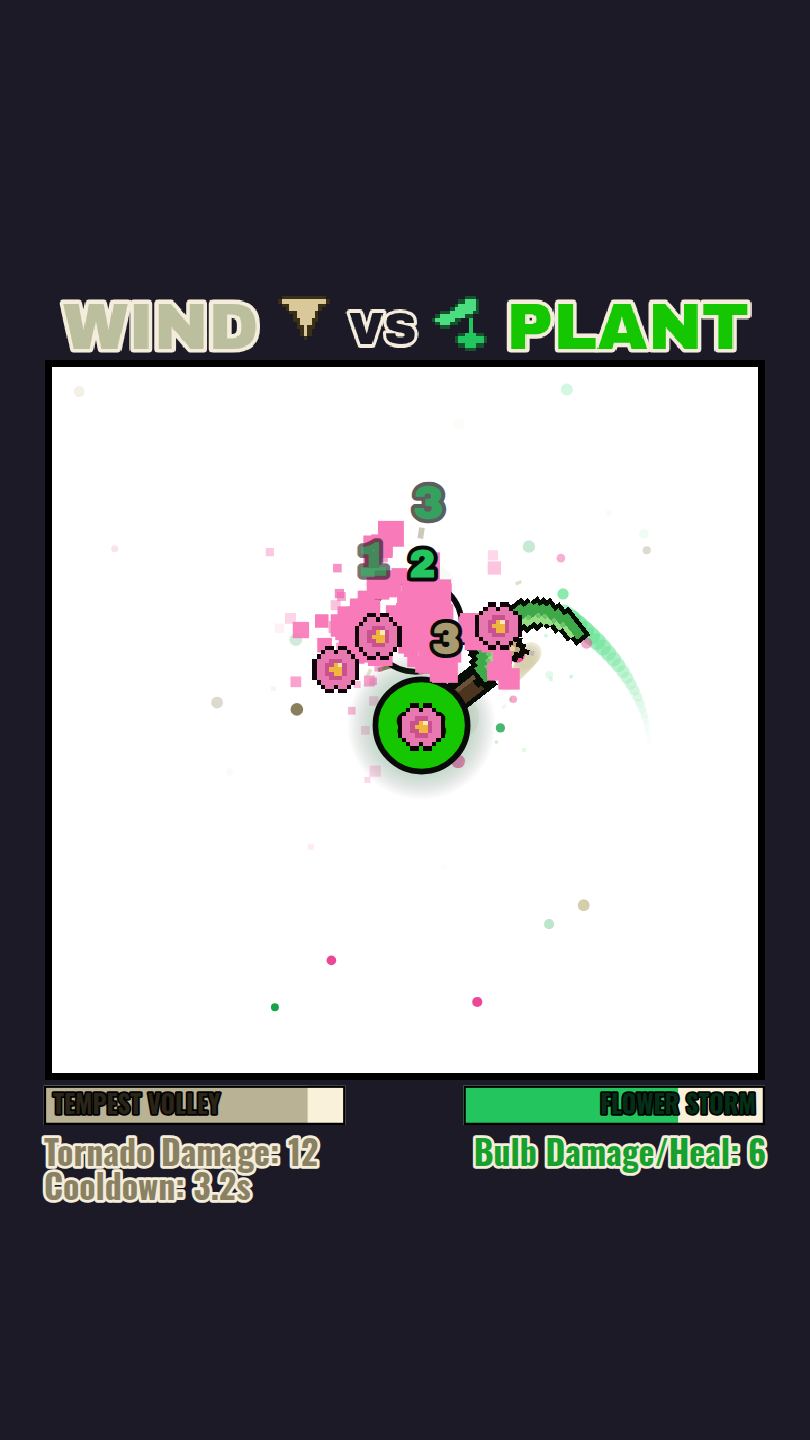
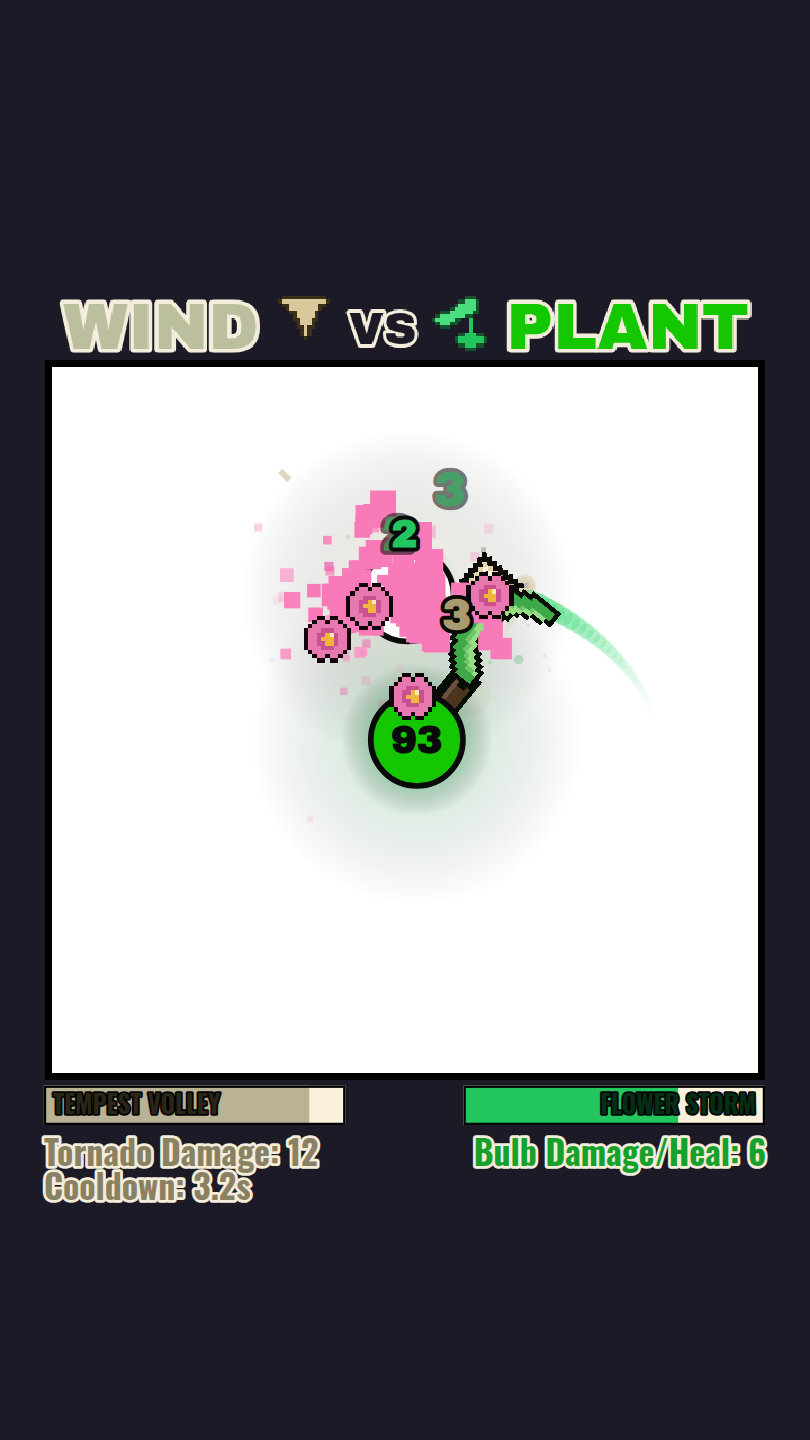
fix(rendu): plus rien ne flotte devant le duel
La poussière d'arène remplissait bien le cadre, mais elle passait entre le
spectateur et les combattants. Supprimée, avec la forme `dust` qui allait
avec, et remplacée par trois effets qui ne peuvent pas gêner la lecture —
c'est devenu la règle de composition de la couche :

> **Rien ne se pose entre le spectateur et les combattants.** Ce qui remplit
> le cadre est au fond, sur les bords, ou derrière la boule.

- **Nappe de sol** : une teinte diffuse sous chaque combattant, dessinée tout
  au fond de l'arène. Elle donne sa couleur à la scène et suit le duel sans
  jamais recouvrir un pixel utile.
- **Ondes de mur** : à chaque rebond, une onde court le long du bord touché à
  la couleur du combattant. Ça bat au rythme du duel — les rebonds sont
  constants — et ça vit sur les bords, loin de l'action.
- **Sillage de vitesse** : quelques traits *derrière* la boule, et seulement
  quand elle va anormalement vite (projetée par un coup, ou sous bonus). En
  croisière, rien : sinon c'est du bruit.

Le frémissement propre à chaque élément est conservé mais resserré — vie
divisée par deux, rayon collé au corps, cadence réduite de 55 % : il souligne
la silhouette au lieu de l'envelopper.

Le mur touché est noté dans `fighter.step` (`this.wall`), simple marquage pour
la mise en scène : aucun effet sur la trajectoire. Matrice des 36 affrontements
identique au fichier près.

Claude-Session: https://claude.ai/code/session_01YNARxNw6vKcSyBJood4EHQ

Changed region(s): [[0.3395, 0.3125, 0.7716, 0.5938], [0.7716, 0.4688, 0.8025, 0.5]]

diff --git a/src/render/flair.js b/src/render/flair.js
@@ -2,9 +2,15 @@
  * Couche de **mise en scène** : tout ce qui rend le duel spectaculaire sans
  * rien changer à ce qui se passe.
  *
- * Ruban d'arme, poussière d'ambiance, nombres de dégâts qui montent, éclat
- * d'incantation, état critique : aucun de ces effets ne touche aux PV, aux
- * positions ni aux minuteurs. C'est ce qui autorise sa règle de fonctionnement
+ * Ruban d'arme, nappe de sol, ondes de mur, sillage de vitesse, nombres de
+ * dégâts qui montent, éclat d'incantation, état critique : aucun de ces effets
+ * ne touche aux PV, aux positions ni aux minuteurs.
+ *
+ * Règle de composition : **rien ne se pose entre le spectateur et les
+ * combattants**. Ce qui remplit le cadre est soit au fond (nappe de sol), soit
+ * sur les bords (ondes de mur), soit accroché au combattant et derrière lui
+ * (ruban, sillage). Une nuée qui flotte au milieu de l'arène a été essayée puis
+ * retirée : elle brouillait la lecture du duel. C'est ce qui autorise sa règle de fonctionnement
  * la plus importante :
  *
  * > **La mise en scène a son propre aléa** (`viewRng`), jamais celui de la
@@ -44,7 +50,8 @@ export class Flair {
     this.flashMax = 1;
     this.flashColor = 'rgba(255,255,255,0.55)';
     this.moteDebt = new Map();
-    this.ambientDebt = 0;
+    /** @type {Array<any>} ondes le long des murs de l'arène */
+    this.ripples = [];
   }
 
   attach(fighters) {
@@ -158,7 +165,7 @@ export class Flair {
       this._trackRibbon(f);
       if (live) this._emitMotes(f, dt);
     }
-    if (live) this._ambient(dt, fighters);
+    if (live) this._walls(dt, fighters);
 
     const inner = ARENA.inner;
     for (const m of this.motes) {
@@ -186,32 +193,115 @@ export class Flair {
   }
 
   /**
-   * Poussière d'arène : une dérive lente aux couleurs des deux combattants sur
-   * toute la surface. C'est ce qui empêche le cadre d'être vide entre deux
-   * échanges — volontairement petite et diluée pour ne jamais brouiller la
-   * lecture du duel.
+   * **Ondes de mur.** À chaque rebond, une onde court le long du mur touché,
+   * à la couleur du combattant. C'est le remplaçant de la poussière d'arène :
+   * ça remplit le cadre au rythme du duel, mais **sur les bords** — jamais
+   * entre le spectateur et les combattants.
    */
-  _ambient(dt, fighters) {
-    this.ambientDebt = (this.ambientDebt ?? 0) + dt * 7;
-    while (this.ambientDebt >= 1) {
-      this.ambientDebt -= 1;
-      const f = fighters[this.rng.next() < 0.5 ? 0 : 1];
-      const spec = f?.el?.look?.flair?.motes;
-      if (!spec) continue;
-      const i = ARENA.inner;
-      this._mote({
-        x: this.rng.range(i.left, i.right),
-        y: this.rng.range(i.top, i.bottom),
-        vx: this.rng.spread(16),
-        vy: -this.rng.range(4, 22),
-        life: this.rng.range(1.6, 3),
-        size: this.rng.range(3, 6),
-        color: this.rng.pick(spec.colors),
-        shape: 'dust',
-        drag: 0.25,
-        spin: this.rng.spread(4),
+  _walls(dt, fighters) {
+    for (const f of fighters) {
+      if (!f.alive || !f.wall) continue;
+      this.ripples.push({
+        side: f.wall,
+        at: f.wall === 'left' || f.wall === 'right' ? f.y : f.x,
+        life: 0.55,
+        maxLife: 0.55,
+        color: f.el.look.accent,
       });
+      if (this.ripples.length > 14) this.ripples.shift();
     }
+    for (let i = this.ripples.length - 1; i >= 0; i--) {
+      this.ripples[i].life -= dt;
+      if (this.ripples[i].life <= 0) this.ripples.splice(i, 1);
+    }
+  }
+
+  /**
+   * Ondes de mur : un trait qui s'étale le long du bord touché, puis s'efface.
+   * Dessiné **sous** tout le reste.
+   */
+  drawWalls(ctx) {
+    const i = ARENA.inner;
+    ctx.save();
+    ctx.lineCap = 'round';
+    for (const r of this.ripples) {
+      const t = r.life / r.maxLife;
+      const spread = 40 + 210 * (1 - t);
+      ctx.globalAlpha = t * t * 0.75;
+      ctx.strokeStyle = r.color;
+      ctx.lineWidth = 3 + 9 * t;
+      ctx.beginPath();
+      if (r.side === 'left' || r.side === 'right') {
+        const x = r.side === 'left' ? i.left + 3 : i.right - 3;
+        ctx.moveTo(x, Math.max(i.top, r.at - spread));
+        ctx.lineTo(x, Math.min(i.bottom, r.at + spread));
+      } else {
+        const y = r.side === 'top' ? i.top + 3 : i.bottom - 3;
+        ctx.moveTo(Math.max(i.left, r.at - spread), y);
+        ctx.lineTo(Math.min(i.right, r.at + spread), y);
+      }
+      ctx.stroke();
+    }
+    ctx.restore();
+    ctx.globalAlpha = 1;
+  }
+
+  /**
+   * **Nappe de sol.** Une teinte diffuse sous chaque combattant, dessinée tout
+   * au fond : l'arène cesse d'être un vide blanc sans qu'aucun pixel ne vienne
+   * se poser devant l'action.
+   */
+  drawFloor(ctx, fighters) {
+    ctx.save();
+    for (const f of fighters) {
+      if (!f.alive) continue;
+      const r = f.radius * 3.6;
+      const g = ctx.createRadialGradient(f.x, f.y, f.radius * 0.4, f.x, f.y, r);
+      g.addColorStop(0, f.el.look.aura.color);
+      g.addColorStop(1, 'rgba(0,0,0,0)');
+      ctx.globalAlpha = 0.5;
+      ctx.fillStyle = g;
+      ctx.beginPath();
+      ctx.arc(f.x, f.y, r, 0, TAU);
+      ctx.fill();
+    }
+    ctx.restore();
+    ctx.globalAlpha = 1;
+  }
+
+  /**
+   * **Sillage de vitesse.** Quelques traits derrière la boule quand elle file :
+   * ils sont *derrière* elle, donc ils soulignent la lecture au lieu de la
+   * gêner, et ils disent d'où elle vient.
+   */
+  drawWake(ctx, fighters, now) {
+    ctx.save();
+    for (const f of fighters) {
+      if (!f.alive) continue;
+      // le sillage n'apparaît qu'à vitesse **anormale** : projeté par un coup,
+      // ou lancé par un bonus. En croisière, rien — sinon c'est du bruit.
+      const speed = Math.hypot(f.impulseX, f.impulseY) + f.currentSpeed(now);
+      const boost = Math.min(1, (speed - 520) / 380);
+      if (boost <= 0.06) continue;
+      const back = f.heading + Math.PI;
+      ctx.strokeStyle = f.el.look.accent;
+      ctx.lineCap = 'round';
+      for (let k = 0; k < 3; k++) {
+        const off = (k - 1) * f.radius * 0.55;
+        const wob = Math.sin(now * 22 + k * 2) * 3;
+        const len = f.radius * (1.1 + 1.9 * boost) * (1 - Math.abs(k - 1) * 0.28);
+        const nx = Math.cos(back + Math.PI / 2) * (off + wob);
+        const ny = Math.sin(back + Math.PI / 2) * (off + wob);
+        ctx.globalAlpha = 0.45 * boost;
+        ctx.lineWidth = 6 - Math.abs(k - 1) * 2;
+        ctx.beginPath();
+        ctx.moveTo(f.x + nx + Math.cos(back) * f.radius * 0.8, f.y + ny + Math.sin(back) * f.radius * 0.8);
+        ctx.lineTo(f.x + nx + Math.cos(back) * (f.radius * 0.8 + len), f.y + ny + Math.sin(back) * (f.radius * 0.8 + len));
+        ctx.stroke();
+      }
+    }
+    ctx.restore();
+    ctx.globalAlpha = 1;
   }
 
   /** Mémorise la pointe de l'arme pour en faire un ruban. */
@@ -257,13 +347,13 @@ export class Flair {
     while (debt >= 1) {
       debt -= 1;
       const a = this.rng.range(0, TAU);
-      const rad = f.radius * this.rng.range(0.6, 1.25);
+      const rad = f.radius * this.rng.range(0.75, 1.05);
       this._mote({
         x: f.x + Math.cos(a) * rad,
         y: f.y + Math.sin(a) * rad,
         vx: this.rng.spread(spec.drift) - f.impulseX * 0.04,
         vy: this.rng.spread(spec.drift) + (spec.rise ?? 0),
-        life: this.rng.range(0.4, 1.1),
+        life: this.rng.range(0.22, 0.5),
         size: this.rng.range(spec.size * 0.5, spec.size),
         color: this.rng.pick(spec.colors),
         shape: f.el.look.flair.shape ?? 'dot',
@@ -321,14 +411,6 @@ export class Flair {
           ctx.rotate(m.angle);
           ctx.fillRect(-s / 2, -s / 2, s, s);
           ctx.restore();
-          break;
-        }
-        case 'dust': {
-          // très diluée, et elle apparaît/disparaît en fondu
-          ctx.globalAlpha = 0.3 * Math.sin(Math.PI * (1 - t));
-          ctx.beginPath();
-          ctx.arc(m.x, m.y, m.size, 0, TAU);
-          ctx.fill();
           break;
         }
         default: {

diff --git a/src/data/elements.js b/src/data/elements.js
@@ -54,12 +54,17 @@ const SHADOW = {
     },
     /**
      * Mise en scène (rendu seul, aucun effet sur le duel) : `ribbon` = traînée
-     * de la pointe d'arme, `motes` = poussière d'ambiance, `impact` = gerbe à
-     * la touche, `shape` = forme des particules.
+     * de la pointe d'arme, `motes` = frémissement **collé au corps** (il
+     * souligne la silhouette, il ne l'enveloppe pas), `impact` = gerbe à la
+     * touche, `shape` = forme des particules.
+     *
+     * Le remplissage du cadre, lui, ne passe plus par des particules qui
+     * flottent devant l'action : c'est la nappe de sol sous chaque combattant
+     * et les ondes le long des murs qui s'en chargent (`render/flair.js`).
      */
     flair: {
       ribbon: { color: '#a855f7', width: 16, alpha: 0.5 },
-      motes: { rate: 20, size: 9, drift: 26, rise: -14, colors: ['#7c3aed', '#a855f7', '#2e1065'] },
+      motes: { rate: 9, size: 9, drift: 26, rise: -14, colors: ['#7c3aed', '#a855f7', '#2e1065'] },
       impact: ['#a855f7', '#c4b5fd', '#ffffff'],
       shape: 'dot',
       castFlash: 'rgba(124,58,237,0.55)',
@@ -220,7 +225,7 @@ const ICE = {
     },
     flair: {
       ribbon: { color: '#67e8f9', width: 17, alpha: 0.5 },
-      motes: { rate: 20, size: 9, drift: 20, rise: 14, colors: ['#22d3ee', '#0891b2', '#67e8f9'] },
+      motes: { rate: 9, size: 9, drift: 20, rise: 14, colors: ['#22d3ee', '#0891b2', '#67e8f9'] },
       impact: ['#a5f3fc', '#ffffff', '#0891b2'],
       shape: 'spark',
       castFlash: 'rgba(165,243,252,0.6)',
@@ -372,7 +377,7 @@ const FIRE = {
     },
     flair: {
       ribbon: { color: '#f97316', width: 18, alpha: 0.6 },
-      motes: { rate: 28, size: 10, drift: 30, rise: -70, colors: ['#f97316', '#ea580c', '#dc2626'] },
+      motes: { rate: 13, size: 10, drift: 30, rise: -70, colors: ['#f97316', '#ea580c', '#dc2626'] },
       impact: ['#fbbf24', '#f97316', '#ffffff'],
       shape: 'spark',
       castFlash: 'rgba(249,115,22,0.6)',
@@ -529,7 +534,7 @@ const LIGHT = {
     shield: { color: 'rgba(253,224,71,0.6)', glow: 'rgba(250,204,21,0.12)' },
     flair: {
       ribbon: { color: '#fde047', width: 19, alpha: 0.6 },
-      motes: { rate: 22, size: 9, drift: 22, rise: -20, colors: ['#eab308', '#facc15', '#ca8a04'] },
+      motes: { rate: 10, size: 9, drift: 22, rise: -20, colors: ['#eab308', '#facc15', '#ca8a04'] },
       impact: ['#fef9c3', '#fde047', '#ffffff'],
       shape: 'streak',
       castFlash: 'rgba(253,224,71,0.7)',
@@ -698,7 +703,7 @@ const WIND = {
     },
     flair: {
       ribbon: { color: '#d6cdaa', width: 20, alpha: 0.5 },
-      motes: { rate: 24, size: 9, drift: 46, rise: -6, colors: ['#b9a878', '#8a7f5c', '#d6cdaa'] },
+      motes: { rate: 11, size: 9, drift: 46, rise: -6, colors: ['#b9a878', '#8a7f5c', '#d6cdaa'] },
       impact: ['#e8dcc0', '#ffffff', '#a89b6f'],
       shape: 'streak',
       castFlash: 'rgba(232,220,192,0.6)',
@@ -862,7 +867,7 @@ const LIGHTNING = {
     },
     flair: {
       ribbon: { color: '#7dd3fc', width: 16, alpha: 0.65 },
-      motes: { rate: 26, size: 8, drift: 40, rise: -10, colors: ['#38bdf8', '#0284c7', '#f5e60a'] },
+      motes: { rate: 12, size: 8, drift: 40, rise: -10, colors: ['#38bdf8', '#0284c7', '#f5e60a'] },
       impact: ['#67e8f9', '#f5e60a', '#ffffff'],
       shape: 'streak',
       castFlash: 'rgba(103,232,249,0.65)',
@@ -985,7 +990,7 @@ const WATER = {
     },
     flair: {
       ribbon: { color: '#60a5fa', width: 18, alpha: 0.55 },
-      motes: { rate: 20, size: 9, drift: 24, rise: 22, colors: ['#2563eb', '#60a5fa', '#1d4ed8'] },
+      motes: { rate: 9, size: 9, drift: 24, rise: 22, colors: ['#2563eb', '#60a5fa', '#1d4ed8'] },
       impact: ['#93c5fd', '#ffffff', '#1d4ed8'],
       shape: 'dot',
       castFlash: 'rgba(96,165,250,0.6)',
@@ -1126,7 +1131,7 @@ const PLANT = {
     },
     flair: {
       ribbon: { color: '#4ade80', width: 19, alpha: 0.55 },
-      motes: { rate: 21, size: 10, drift: 26, rise: -18, colors: ['#16a34a', '#4ade80', '#ec4899'] },
+      motes: { rate: 9, size: 10, drift: 26, rise: -18, colors: ['#16a34a', '#4ade80', '#ec4899'] },
       impact: ['#4ade80', '#bbf7d0', '#f472b6'],
       shape: 'dot',
       castFlash: 'rgba(74,222,128,0.6)',

diff --git a/src/game/fighter.js b/src/game/fighter.js
@@ -89,6 +89,8 @@ export class Fighter {
     this.customWeapon = null;
     /** Suivi de l'incantation d'ultime, pour la mise en scène (rendu seul). */
     this.wasUlting = false;
+    /** Mur touché à ce pas, pour la mise en scène (rendu seul). */
+    this.wall = null;
   }
 
   get radius() {
@@ -206,10 +208,13 @@ export class Fighter {
     const r = this.radius;
     const i = ARENA.inner;
     let bounced = false;
-    if (this.x - r < i.left) { this.x = i.left + r; this.heading = wrapAngle(Math.PI - this.heading); this.impulseX = Math.abs(this.impulseX); bounced = true; }
-    if (this.x + r > i.right) { this.x = i.right - r; this.heading = wrapAngle(Math.PI - this.heading); this.impulseX = -Math.abs(this.impulseX); bounced = true; }
-    if (this.y - r < i.top) { this.y = i.top + r; this.heading = wrapAngle(-this.heading); this.impulseY = Math.abs(this.impulseY); bounced = true; }
-    if (this.y + r > i.bottom) { this.y = i.bottom - r; this.heading = wrapAngle(-this.heading); this.impulseY = -Math.abs(this.impulseY); bounced = true; }
+    // `wall` note le mur touché **pour la mise en scène seulement** : simple
+    // marquage, aucun effet sur la trajectoire.
+    this.wall = null;
+    if (this.x - r < i.left) { this.x = i.left + r; this.heading = wrapAngle(Math.PI - this.heading); this.impulseX = Math.abs(this.impulseX); bounced = true; this.wall = 'left'; }
+    if (this.x + r > i.right) { this.x = i.right - r; this.heading = wrapAngle(Math.PI - this.heading); this.impulseX = -Math.abs(this.impulseX); bounced = true; this.wall = 'right'; }
+    if (this.y - r < i.top) { this.y = i.top + r; this.heading = wrapAngle(-this.heading); this.impulseY = Math.abs(this.impulseY); bounced = true; this.wall = 'top'; }
+    if (this.y + r > i.bottom) { this.y = i.bottom - r; this.heading = wrapAngle(-this.heading); this.impulseY = -Math.abs(this.impulseY); bounced = true; this.wall = 'bottom'; }
     if (bounced && PHYSICS.spinFlipsOnBounce) this.spinDir *= -1;
 
     // --- rotation de l'arme (ralentie comme le déplacement)

diff --git a/src/game/match.js b/src/game/match.js
@@ -477,11 +477,15 @@ export class Match {
     ctx.rect(inner.left, inner.top, inner.right - inner.left, inner.bottom - inner.top);
     ctx.clip();
 
+    // tout au fond : la nappe de sol et les ondes de mur, qui ne passent
+    // jamais devant les combattants
+    this.flair.drawFloor(ctx, this.fighters);
+    this.flair.drawWalls(ctx);
+
     // pendant la parade, l'arène est nettoyée : plus une zone, plus un pouvoir
     if (this.phase !== 'victory') {
       for (const [f, mod] of this.modules) mod.drawUnder(ctx, f, this, this.time);
     }
-    this.flair.drawUnder(ctx, this.fighters);
     ctx.restore();
 
     // passe **hors arène** : certains effets débordent volontairement du cadre
@@ -494,6 +498,8 @@ export class Match {
     ctx.beginPath();
     ctx.rect(inner.left, inner.top, inner.right - inner.left, inner.bottom - inner.top);
     ctx.clip();
+    this.flair.drawWake(ctx, this.fighters, this.time);
+    this.flair.drawUnder(ctx, this.fighters);
     this.fx.draw(ctx, true);
     this.projectiles.draw(ctx);
     // dès la parade, le perdant a quitté l'arène

diff --git a/README.md b/README.md
@@ -67,12 +67,17 @@ La seed du duel est affichée sous le vainqueur : elle suffit à le refaire joue
 plus tard avec `?seed=`.
 
 Chaque élément a sa **signature à l'écran** (`look.flair`) : ruban de couleur
-derrière la pointe de l'arme, poussière d'ambiance qui remplit l'arène, gerbe
-d'impact et éclat d'incantation à ses teintes. S'y ajoutent les **nombres de
-dégâts** qui s'envolent à chaque touche, la **convergence de matière** dès 85 %
-de jauge d'ultime, et le **cerclage rouge pulsé** sous 25 PV. Tout cela vit dans
-`src/render/flair.js`, avec son propre aléa : la mise en scène ne peut pas
-déplacer une virgule de l'équilibrage.
+derrière la pointe de l'arme, nappe de sol à ses teintes, frémissement collé au
+corps, gerbe d'impact et éclat d'incantation. S'y ajoutent les **nombres de
+dégâts** qui s'envolent à chaque touche, les **ondes qui courent le long des
+murs** à chaque rebond, le **sillage** derrière une boule projetée, la
+**convergence de matière** dès 85 % de jauge d'ultime et le **cerclage rouge
+pulsé** sous 25 PV.
+
+Tout cela suit une règle de composition : **rien ne se pose entre le spectateur
+et les combattants**. Ce qui remplit le cadre est au fond, sur les bords, ou
+derrière la boule. Tout vit dans `src/render/flair.js`, avec son propre aléa :
+la mise en scène ne peut pas déplacer une virgule de l'équilibrage.
 
 Le duel se termine par **une seconde de parade** : le perdant quitte l'arène, le
 vainqueur glisse au centre, grandit, son arme s'emballe et il pousse des anneaux
@@ -109,7 +114,7 @@ src/
 │   ├── hud.js             jauges d'ultime + ligne de stat
 │   ├── recorder.js        film du duel → vidéo verticale 1080x1920 (Shorts)
 │   ├── effects.js         particules de jeu (étincelles, neige, fantômes)
-│   ├── flair.js           mise en scène : rubans d'arme, nombres, poussière
+│   ├── flair.js           mise en scène : rubans, nappes, ondes de mur, nombres
 │   └── text.js            texte ajusté pour ne jamais déborder du HUD
 ├── game/
 │   ├── match.js           machine à états du duel + dégâts + rendu global

diff --git a/CLAUDE.md b/CLAUDE.md
@@ -21,7 +21,7 @@ Va droit au fichier concerné, en `grep` ciblé plutôt qu'en lecture intégrale
 | Déroulé du duel, dégâts, rendu global | `src/game/match.js` |
 | Entité combattant (état + dessin) | `src/game/fighter.js` |
 | Pouvoirs d'un élément | `src/game/abilities/<id>.js` |
-| Mise en scène (rubans, nombres, poussière) | `src/render/flair.js` + `look.flair` de chaque fiche |
+| Mise en scène (rubans, nappes, ondes, nombres) | `src/render/flair.js` + `look.flair` de chaque fiche |
 | Écrans DOM | `src/ui/select.js`, `src/ui/result.js`, `index.html`, `styles/style.css` |
 | Câblage, boucle, seed, enregistreur | `src/main.js` |
 | Relevés vidéo détaillés, par élément | `docs/FICHES.md` |
@@ -49,6 +49,10 @@ Huit éléments : `shadow ice fire water light lightning wind plant`.
    - `render/flair.js` est **la** porte d'entrée pour ajouter du spectacle :
      aléa `viewRng`, banc de particules séparé, aucun accès à `game.rng`.
      Y ajouter un effet ne peut pas casser l'équilibrage.
+     Sa règle de composition : **rien entre le spectateur et les combattants**.
+     Remplir le cadre par le fond (nappe de sol), les bords (ondes de mur) ou
+     l'arrière du combattant (ruban, sillage) — jamais par une nuée flottante,
+     essayée puis retirée pour cette raison.
 3. **Équilibrage.** Chaque élément gagne 9 à 12 duels sur 21. Après **tout**
    changement, comparer la matrice (voir Outils) : un changement visuel doit
    la laisser **identique au fichier près**.
